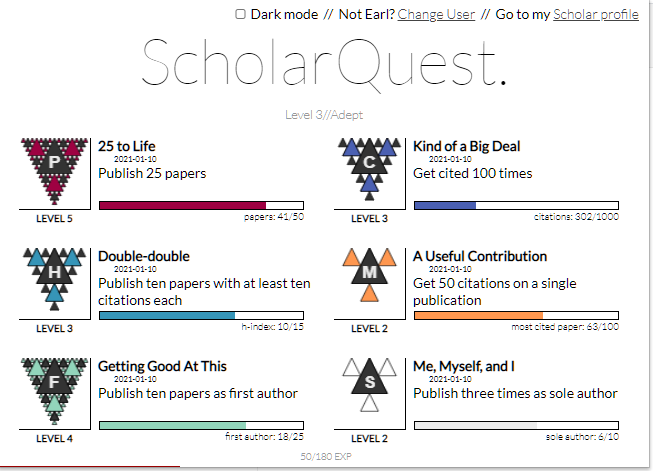
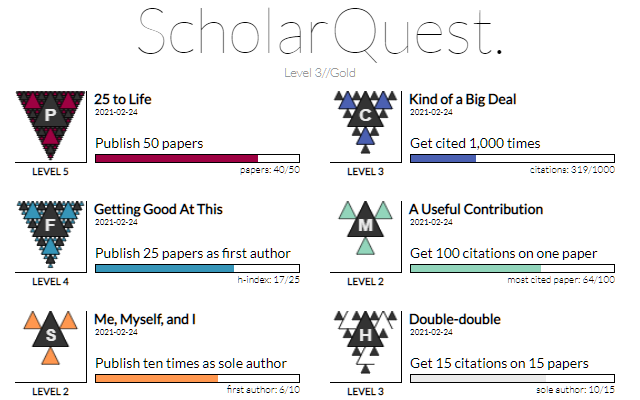
Update photo

diff --git a/common.js b/common.js
@@ -243,15 +243,15 @@ const soloAchievements = [{
 //hindexLevels   = [ 2,   5,   10,    15,   25,  50, 75, 100, 200, 300, 500]
 const hindexAchievements = [{
         "title": "Two for Two",
-        "description": "Publish two papers with at least two citations each",
+        "description": "Get two citations on two papers",
         "amount": 2, 
     }, {
         "title": "Five for Five",
-        "description": "Publish five papers with at least five citations each",
+        "description": "Get five citations on five papers",
         "amount": 5, 
     }, {
         "title": "Double-double",
-        "description": "Publish ten papers with at least ten citations each",
+        "description": "Get ten citations on ten papers",
         "amount": 10, 
     }, {
         "title": "Citation Hunter",
